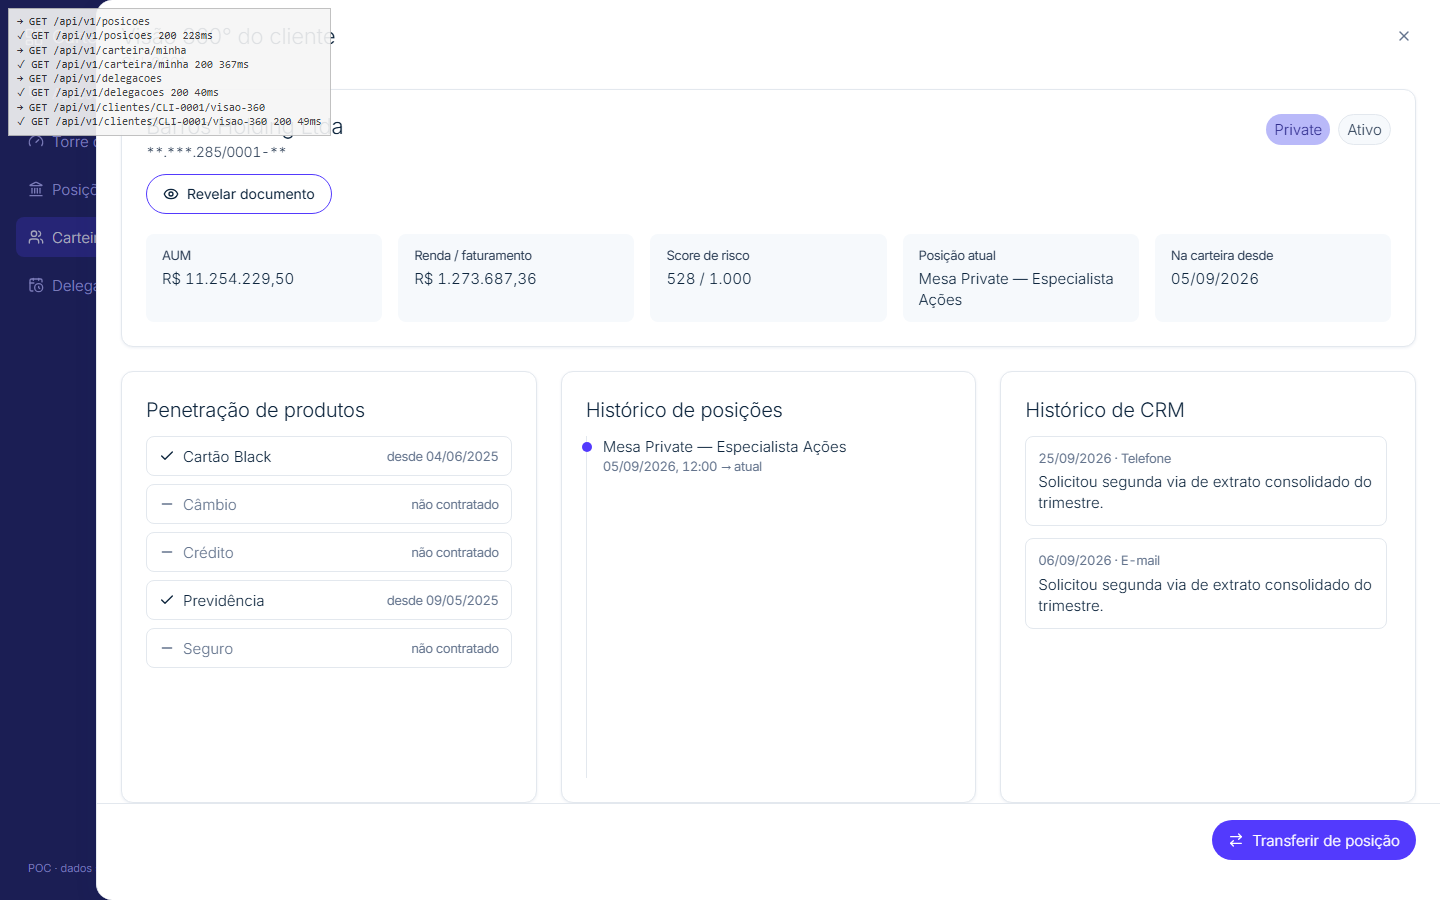
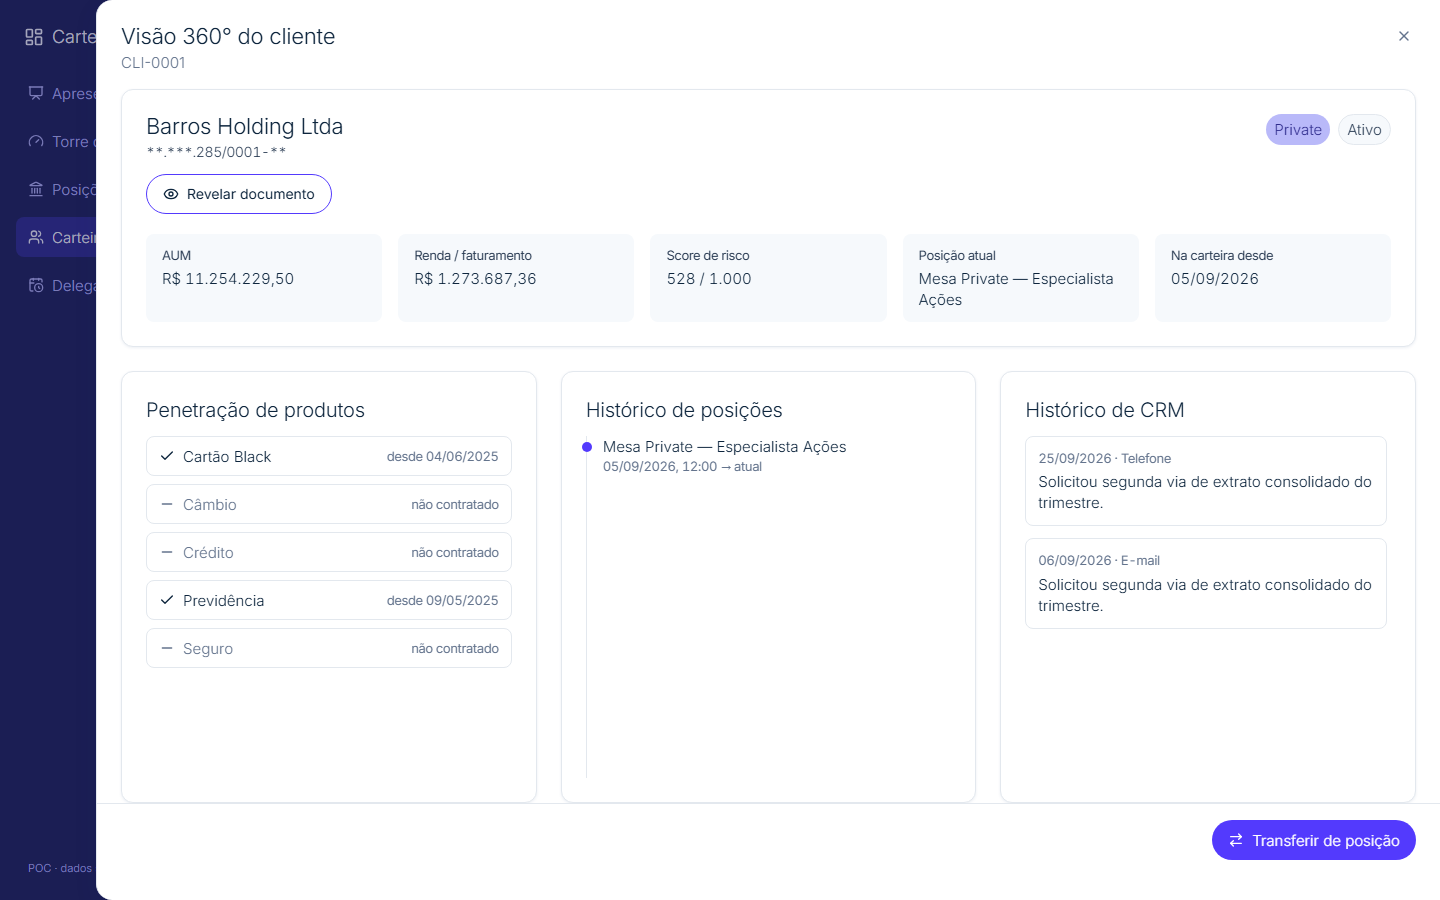
chore(gas): remove o rastro de chamadas do canto superior esquerdo

Changed region(s): [[0.0, 0.0, 0.25, 0.1556]]

diff --git a/apps-script/runtime.html b/apps-script/runtime.html
@@ -28997,7 +28997,7 @@
   }
   function criarFetchGas() {
     return ((entrada, init) => new Promise((resolve, reject) => {
-      var _a2, _b;
+      var _a2;
       const url = new URL(String(entrada), "http://gas.local");
       const headers = {};
       new Headers(init == null ? void 0 : init.headers).forEach((v, k) => {
@@ -29017,22 +29017,14 @@
         }
       }
       const servidor = run();
-      const rastro = globalThis.CARTEIRA_RASTRO;
-      const t0 = Date.now();
-      const rotulo = "".concat((_a2 = init == null ? void 0 : init.method) != null ? _a2 : "GET", " ").concat(url.pathname);
-      rastro == null ? void 0 : rastro("\u2192 ".concat(rotulo));
       if (!servidor) {
         reject(new Error("google.script.run indispon\xEDvel"));
         return;
       }
-      servidor.withSuccessHandler((r2) => {
-        rastro == null ? void 0 : rastro("\u2713 ".concat(rotulo, " ").concat(r2 == null ? void 0 : r2.status, " ").concat(Date.now() - t0, "ms"));
-        resolve(new Response(r2.status === 204 ? null : JSON.stringify(r2.corpo), { status: r2.status, headers: r2.headers }));
-      }).withFailureHandler((e) => {
+      servidor.withSuccessHandler((r2) => resolve(new Response(r2.status === 204 ? null : JSON.stringify(r2.corpo), { status: r2.status, headers: r2.headers }))).withFailureHandler((e) => {
         var _a3;
-        rastro == null ? void 0 : rastro("\u2717 ".concat(rotulo, " ").concat(e == null ? void 0 : e.message, " ").concat(Date.now() - t0, "ms"));
-        reject(new Error((_a3 = e == null ? void 0 : e.message) != null ? _a3 : "Falha ao chamar o servidor do Apps Script"));
-      }).apiChamar({ metodo: (_b = init == null ? void 0 : init.method) != null ? _b : "GET", caminho: url.pathname, consulta, headers, corpo, corpoInvalido });
+        return reject(new Error((_a3 = e == null ? void 0 : e.message) != null ? _a3 : "Falha ao chamar o servidor do Apps Script"));
+      }).apiChamar({ metodo: (_a2 = init == null ? void 0 : init.method) != null ? _a2 : "GET", caminho: url.pathname, consulta, headers, corpo, corpoInvalido });
     }));
   }
 

diff --git a/frontend/sdk/src/gas.ts b/frontend/sdk/src/gas.ts
@@ -28,14 +28,10 @@ export function criarFetchGas(): typeof fetch {
         try { corpo = JSON.parse(init.body); } catch { corpoInvalido = true; }
       }
       const servidor = run();
-      const rastro = (globalThis as { CARTEIRA_RASTRO?: (m: string) => void }).CARTEIRA_RASTRO;
-      const t0 = Date.now();
-      const rotulo = `${init?.method ?? 'GET'} ${url.pathname}`;
-      rastro?.(`→ ${rotulo}`);
       if (!servidor) { reject(new Error('google.script.run indisponível')); return; }
       servidor
-        .withSuccessHandler((r) => { rastro?.(`✓ ${rotulo} ${r?.status} ${Date.now() - t0}ms`); resolve(new Response(r.status === 204 ? null : JSON.stringify(r.corpo), { status: r.status, headers: r.headers })); })
-        .withFailureHandler((e) => { rastro?.(`✗ ${rotulo} ${e?.message} ${Date.now() - t0}ms`); reject(new Error(e?.message ?? 'Falha ao chamar o servidor do Apps Script')); })
+        .withSuccessHandler((r) => resolve(new Response(r.status === 204 ? null : JSON.stringify(r.corpo), { status: r.status, headers: r.headers })))
+        .withFailureHandler((e) => reject(new Error(e?.message ?? 'Falha ao chamar o servidor do Apps Script')))
         .apiChamar({ metodo: init?.method ?? 'GET', caminho: url.pathname, consulta, headers, corpo, corpoInvalido });
     })) as typeof fetch;
 }

diff --git a/scripts/build-gas.ts b/scripts/build-gas.ts
@@ -151,12 +151,6 @@ async function front(): Promise<void> {
       // diagnóstico de carga: registra erros de cada script (arquivo em carga = window.__etapa) e o shell os mostra se algo faltar
       window.CARTEIRA_ERROS = [];
       window.__etapa = 'inicio';
-      window.CARTEIRA_RASTRO = function (msg) {
-        window.__rastro = (window.__rastro || []).concat(msg).slice(-8);
-        var r = document.getElementById('carteira-rastro');
-        if (!r) { r = document.createElement('div'); r.id = 'carteira-rastro'; r.style.cssText = 'position:fixed;left:8px;top:8px;padding:6px 8px;background:#f5f5f5;color:#333;border:1px solid #bbb;font:11px/1.3 monospace;white-space:pre;z-index:99998;opacity:.9;pointer-events:none'; document.body.appendChild(r); }
-        r.textContent = window.__rastro.join(String.fromCharCode(10));
-      };
       window.CARTEIRA_MOSTRAR = function (msg) {
         window.CARTEIRA_ERROS.push(msg);
         var d = document.getElementById('carteira-erros');

diff --git a/apps-script/index.html b/apps-script/index.html
@@ -9,12 +9,6 @@
       // diagnóstico de carga: registra erros de cada script (arquivo em carga = window.__etapa) e o shell os mostra se algo faltar
       window.CARTEIRA_ERROS = [];
       window.__etapa = 'inicio';
-      window.CARTEIRA_RASTRO = function (msg) {
-        window.__rastro = (window.__rastro || []).concat(msg).slice(-8);
-        var r = document.getElementById('carteira-rastro');
-        if (!r) { r = document.createElement('div'); r.id = 'carteira-rastro'; r.style.cssText = 'position:fixed;left:8px;top:8px;padding:6px 8px;background:#f5f5f5;color:#333;border:1px solid #bbb;font:11px/1.3 monospace;white-space:pre;z-index:99998;opacity:.9;pointer-events:none'; document.body.appendChild(r); }
-        r.textContent = window.__rastro.join(String.fromCharCode(10));
-      };
       window.CARTEIRA_MOSTRAR = function (msg) {
         window.CARTEIRA_ERROS.push(msg);
         var d = document.getElementById('carteira-erros');
